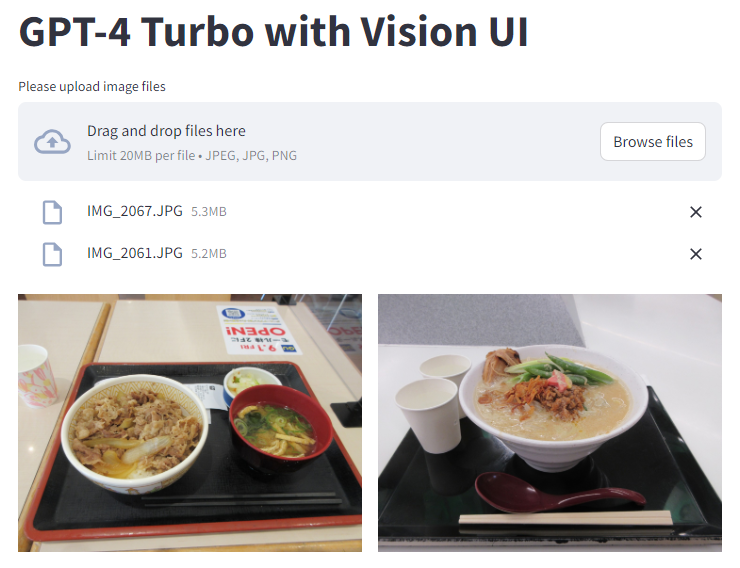
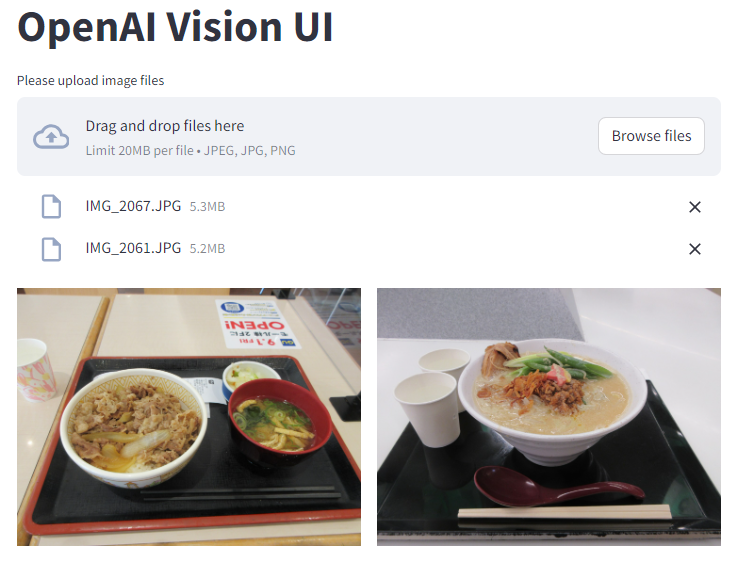
Update README

diff --git a/README.md b/README.md
@@ -1,6 +1,6 @@
 # azure-openai-vision-ui
 
-Simple Web UI to try out GPT-4 Turbo with Vision.
+Simple Web UI to try out vision capabilities on GPT-4o / GPT-4 Turbo.
 
 # Setup
 
@@ -27,7 +27,7 @@ You may upload multiple files.
 ![Usage 1](img/usage_1.png)
 
 Next, ask a question about the image,
-GPT-4 Turbo with Vision will then return a message.
+GPT-4o / GPT-4 Turbo will then return a message.
 
 ![Usage 2](img/usage_2.png)
 
